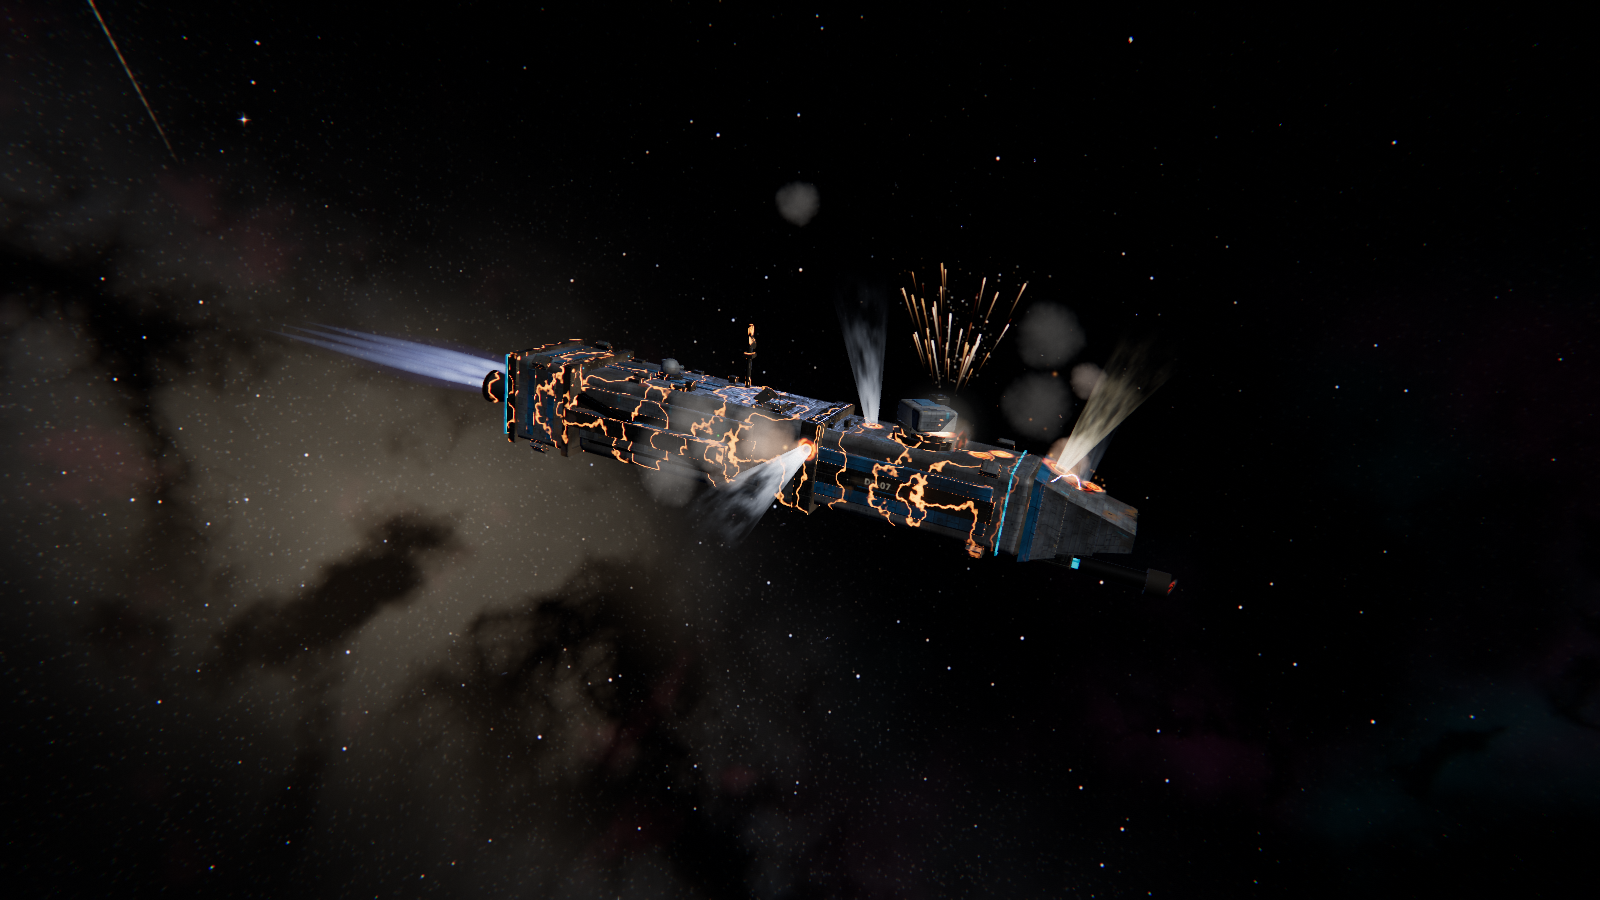
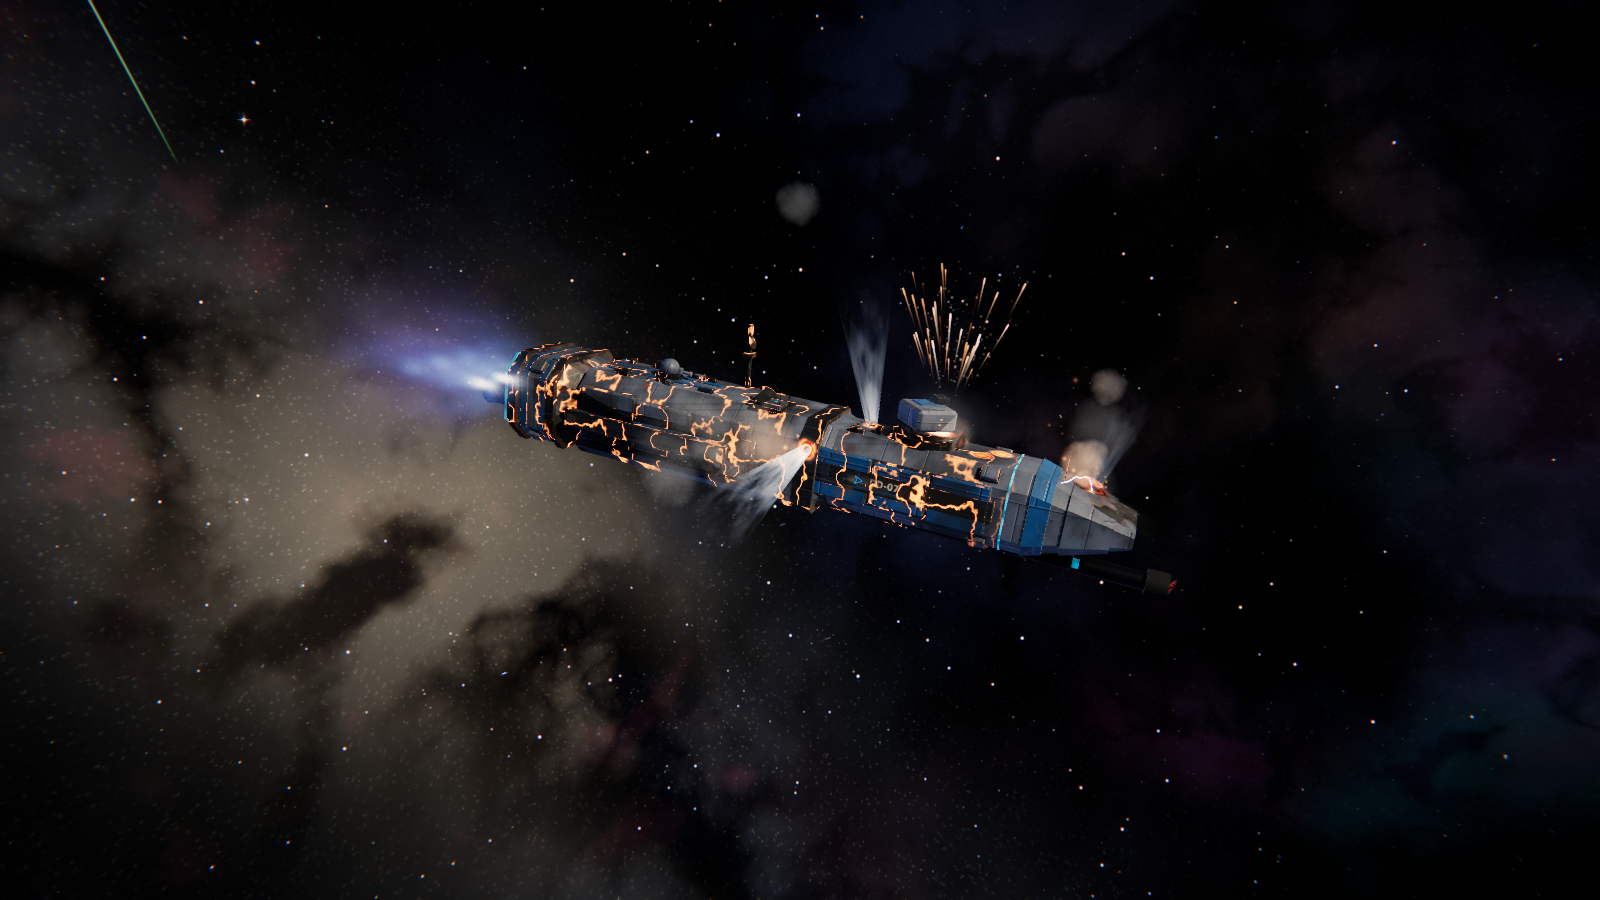
README image set re-shot on the pass-5 viewer; four new pass-5 images
Re-shot with the documented commands (1600x900, --gfx high): hero,
hull-lineup, torpedo-salvo, reactor-breach, dying-hulk, fleet-battle,
command-net, intent-consequence. New: blast-shell.jpg, fittings-hud.png,
dreadnought.png, torpedo-strike.png, with table rows and capture commands.
The two live-mode images are unchanged. PNGs re-compressed losslessly
(Pillow), JPEG q95 4:4:4 where a PNG would not fit under 1.5 MB.

Claude-Session: https://claude.ai/code/session_01UG3jV6zwB9tH5e8W89WnJJ

diff --git a/docs/images/readme/README.md b/docs/images/readme/README.md
@@ -1,24 +1,32 @@
 # README screenshots
 
-Captured from the Three.js viewer on October 25, 2026 with headless Chromium
-(Playwright, SwiftShader WebGL) at 1600 × 900 with `--gfx high`. These are
+Captured from the Three.js viewer on November 15, 2026 (pass-5 viewer: sun
+shadows, image-based fill, ambient occlusion, new hulls and effects) with
+headless Chromium (Playwright, SwiftShader WebGL) at 1600 × 900 with
+`--gfx high`. The two live-mode images (`live-deliberation.png`,
+`draft-splash.png`) are still the October 25, 2026 captures. These are
 application screenshots: ship states, ordnance, damage, HUD text and commander
 messages come from the recorded battles. Nothing is painted in or retouched;
-the only post-processing is lossless PNG optimisation (and JPEG quality 95,
-4:4:4, for `reactor-breach.jpg`, whose particle field does not fit a PNG under
-1.5 MB). Framing choices are camera placement, lens (field of view), panel
+the only post-processing is lossless PNG re-compression (Pillow,
+`optimize=True`) and, for the images whose particle fields or star fields do
+not fit a PNG under about 1.5 MB (`reactor-breach.jpg` and any other `.jpg`
+below), JPEG quality 95, 4:4:4. Framing choices are camera placement, lens (field of view), panel
 filters/scrolling, and for `command-net.png` a 2× device-scale crop.
 
 | File | Recording | Battle time | View |
 | --- | --- | ---: | --- |
-| `hero.png` | Showcase s0 (200 pt, dreadnoughts vs torpedo swarm) | 96.5s | `alpha_1` (dreadnought) at full thrust, PD beams on inbound torpedoes; 4.6 hull lengths, azimuth −36°, elevation 9°, 20° lens; HUD hidden |
+| `hero.png` | Showcase s0 (200 pt, dreadnoughts vs torpedo swarm) | 96.5s | `alpha_1` (dreadnought) at full thrust, PD lasers on inbound torpedoes; 4.6 hull lengths, azimuth −36°, elevation 9°, 20° lens; HUD hidden |
 | `hull-lineup.png` | `rcs_showroom.json` as an empty stage (any recording works: the hulls are spawned far from its ships) | 5s | Showroom: every hull class spawned with the viewer's `createShip`, alpha column facing beta; top to bottom siege dreadnought, dreadnought, battleship, battlecruiser, torpedo cruiser, cruiser, destroyer, frigate, corvette; 12° lens; HUD hidden |
 | `fleet-battle.png` | Claude Sonnet 5 vs DeepSeek V4.1 Flash, 150 pt | 151s | Fleet view one second after the first kill; scoreboard, kill toast, command net, registry, timeline lanes; track legend collapsed |
 | `torpedo-salvo.png` | Showcase s7 (200 pt, battleships vs torpedo swarm) | 203.3s | Two battleships' PD fans on an inbound torpedo, kinetic strike on `alpha_1`; explicit camera; HUD hidden |
-| `reactor-breach.jpg` | Showcase s7 | 205.7s | `alpha_1` battleship reactor breach 1.7 s after the kill, the sister ship's plume crossing the fireball; 5.5 hull lengths, azimuth −20°, elevation 20°; HUD hidden |
+| `reactor-breach.jpg` | Showcase s7 | 205.7s | `alpha_1` battleship reactor breach 1.7 s after the kill, shock ring and debris, the sister ship's plume at the fireball's left edge; 5.5 hull lengths, azimuth −20°, elevation 20°; HUD hidden |
 | `dying-hulk.png` | Showcase s7 | 114s | `alpha_7` destroyer as a dying hulk (killed at 110 s, reactor goes at 118 s): molten cracks, venting, sputtering torch; 1.35 hull lengths, azimuth 20°, elevation 15°; HUD hidden |
 | `command-net.png` | DeepSeek V4.1 Flash mirror, 150 pt (pass-4 engine) | 216s | OCS Lancer-2 and its captain's DEVIATE report to the admiral (merge-floor reasoning, compliance chip), both admirals' standing directives; REPORTS filter; 1200 × 660 viewport at device scale 2, cropped to the right 800 × 450 CSS px |
 | `intent-consequence.png` | Qwen–GPT-OSS | 184.8s | `alpha_2` decision `e152` pinned; camera on the crippled `beta_1` (reactor in 14 s), 2 hull lengths, azimuth 35°, elevation 18°; Decisions panel scrolled to ship execution and observed consequences |
+| `blast-shell.jpg` | Pass-5 damage demo | 152.6s | Reactor blast of `beta_5` (destroyer, killed at 150 s) 2.6 s on: fireball inside the blast shell drawn to the recorded 13 km radius, two escorts beside it, PD lasers still working; 6 hull lengths, azimuth 30°, elevation 18°; HUD hidden |
+| `fittings-hud.png` | Pass-5 damage demo | 180s | OCS Falchion-1 (`beta_2`) selected one second after the frigate TIS Ward-1's reactor blast caught it: kill toast with the blast radius, CAUGHT IN BLAST and DISARMED toasts, fitting pips in the ship registry, FITTINGS block (guns, PD with one damaged turret, drive) in the telemetry card; 5 hull lengths, azimuth 30°, elevation 18° |
+| `dreadnought.png` | Showcase s0 | 96.5s | `alpha_1`, the pass-5 dreadnought, three-quarter view from the sunlit side at full thrust; 3 hull lengths, azimuth −10°, elevation 35°, 20° lens; HUD hidden |
+| `torpedo-strike.png` | Pass-5 tactics showcase | 100.5s | Synchronized torpedo salvo landing on the battleship `beta_1` half a second before its reactor goes; 2.6 hull lengths, azimuth 35°, elevation 18°; HUD hidden |
 | `live-deliberation.png` | Claude Sonnet 5 vs DeepSeek V4.1 Flash, replayed through the live endpoints | CP5 (150s) | `?live=1&decisions=1`: live bar, COMMAND DELIBERATION card (both sides' progress, spend), alpha admiral's salvo directive, the salvo one second from impact |
 | `draft-splash.png` | Same, live endpoints | T+4s | Draft splash after both sealed picks: rosters, formations and each admiral's reasoning |
 
@@ -27,8 +35,16 @@ filters/scrolling, and for `command-net.png` a 2× device-scale crop.
 - Claude Sonnet 5 vs DeepSeek V4.1 Flash: `sonnet5_vs_dsv41flash_150pt_20260926.json` (live run of September 26, 2026)
 - DeepSeek V4.1 Flash mirror: `p4_new_flash_mirror_150pt.json` (pass-4 engine with captain reports)
 - [Qwen–GPT-OSS](../../../data/recordings/intent_qwen_gptoss.json)
-- Showcase s0 / s7: free heuristic draft battles on the pass-4 engine, regenerated
-  deterministically (identical trace and events run to run):
+- Pass-5 damage demo: `p5_damage_demo.json`, a seeded heuristic fleet battle
+  (regeneration command in
+  [`docs/pass-5-recording-additions.md`](../../pass-5-recording-additions.md))
+- Pass-5 tactics showcase: `p5_tactics_s4.json` (heuristic captains, `tactical`
+  doctrine)
+- Showcase s0 / s7: free heuristic draft battles recorded on the pass-4 engine
+  with the commands below. The frames here are taken from those pass-4
+  recordings; the pass-5 engine changes seeded battles, so re-running the
+  commands today gives a different battle (use the archived recordings to
+  reproduce these exact frames):
 
   ```bash
   uv run python scripts/run_draft_battle.py --auto-draft --no-admirals --trace \
@@ -43,7 +59,8 @@ Stage recordings in `visualizer/public/recordings/` as described in the
 ## Capture commands
 
 Each replay image is one `scripts/viewer_snapshot.py` command (add `--port` if
-your dev server is not on 5173). `capture-helpers.js` holds the JavaScript the
+your dev server is not on 5173, and `--init-timeout 420` on a loaded machine:
+software GL bakes the sky and compiles every shader at load). `capture-helpers.js` holds the JavaScript the
 commands pass through `--eval`: it only calls the viewer's own API
 (`window.visualizer`).
 
@@ -87,6 +104,23 @@ uv run python scripts/viewer_snapshot.py --gfx high --recording p4_new_flash_mir
 $SNAP --recording intent_qwen_gptoss.json --query "ship=alpha_2&decisions=1&decision=e152&t=184.8" \
   --time 184.8 --focus beta_1 --dist 2 --az 35 --el 18 \
   --eval "$(cat $H); window.visualizer.deselectShip(); readmeDecisionTo('03')" --out intent-consequence.png
+
+# blast-shell.jpg (captured as PNG, then JPEG q95 4:4:4)
+$SNAP --recording p5_damage_demo.json --time 152.6 --focus beta_5 --dist 6 --az 30 --el 18 \
+  --hide-ui --eval "$TRACKS_OFF" --out blast-shell.png
+
+# fittings-hud.png
+$SNAP --recording p5_damage_demo.json --query "ship=beta_2" --time 180 --focus beta_2 --dist 5 --az 30 --el 18 \
+  --out fittings-hud.png
+
+# dreadnought.png
+$SNAP --recording showcase_s0_200pt.json --time 96.5 --focus alpha_1 --dist 3.0 --az -10 --el 35 --hide-ui \
+  --eval "(() => { $TRACKS_OFF; const c = window.visualizer.scene.camera; c.fov = 20; c.updateProjectionMatrix(); })()" \
+  --out dreadnought.png
+
+# torpedo-strike.png
+$SNAP --recording p5_tactics_s4.json --time 100.5 --focus beta_1 --dist 2.6 --az 35 --el 18 \
+  --hide-ui --eval "$TRACKS_OFF" --out torpedo-strike.png
 ```
 
 The live images replay the Sonnet–DeepSeek recording through the live
